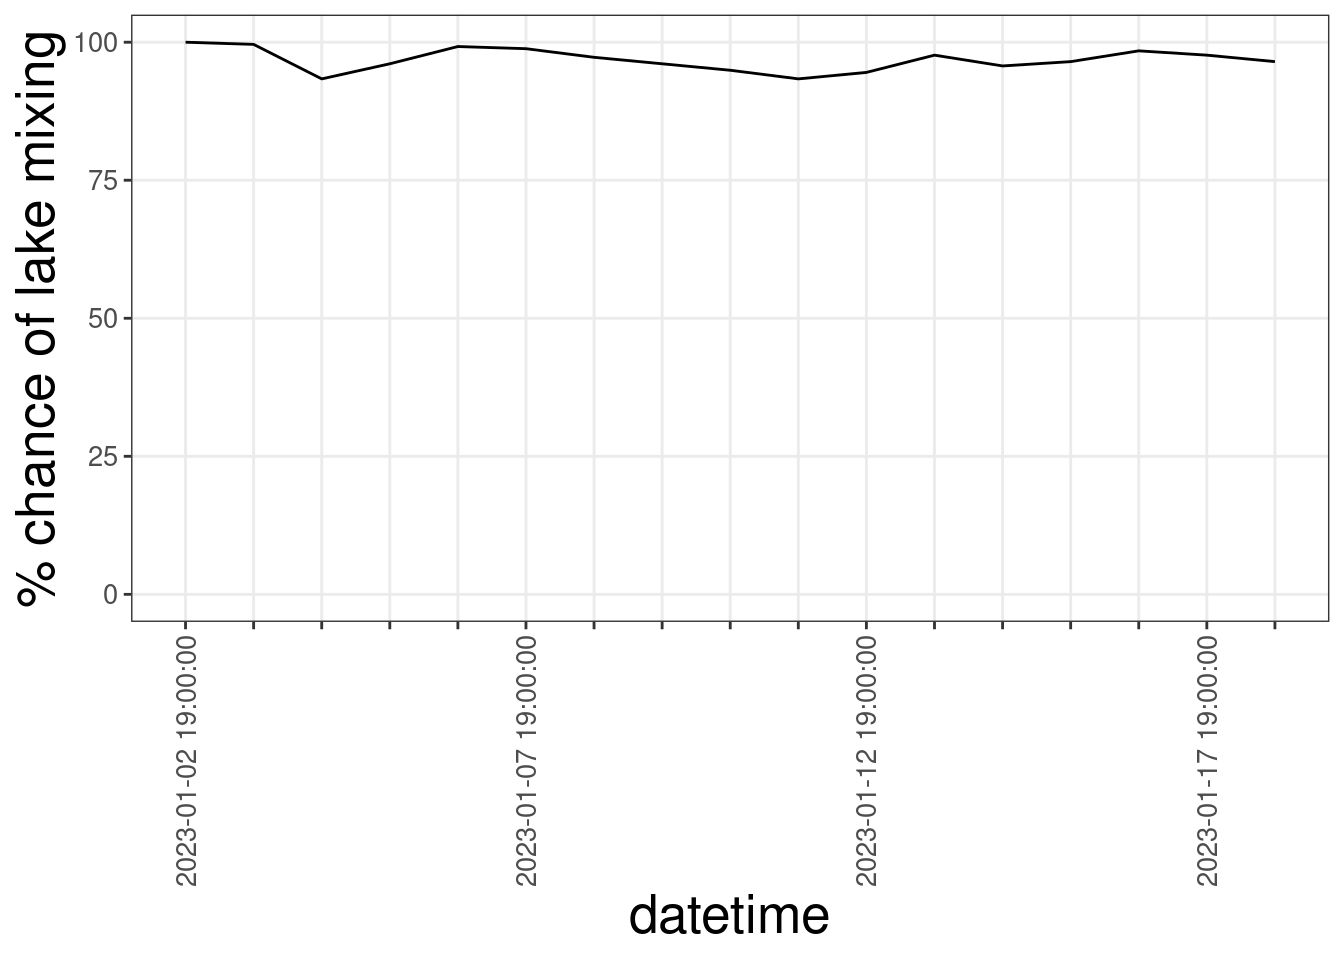
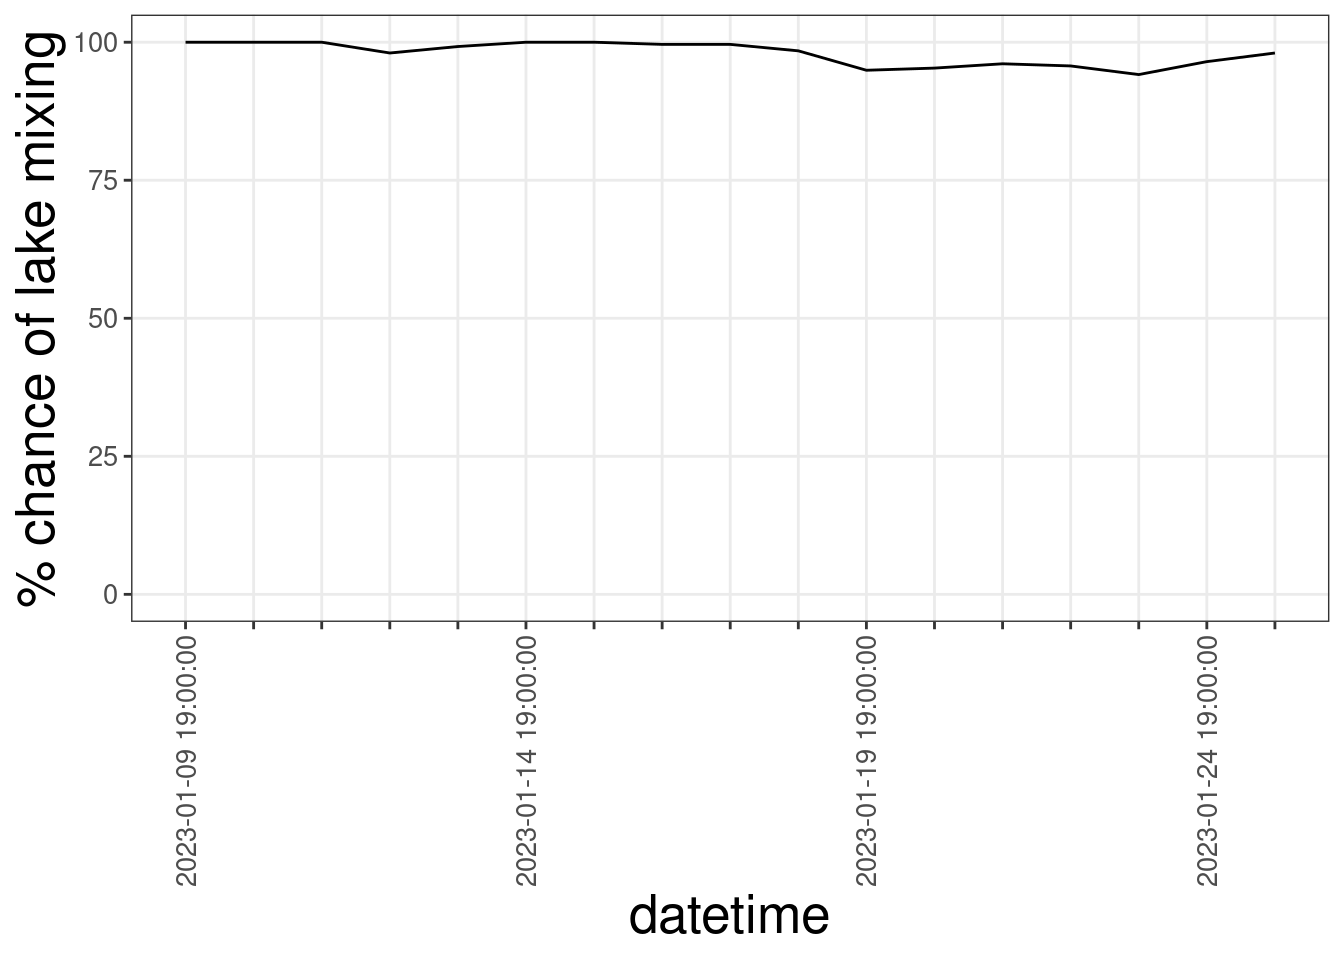
Re-build site

Changed region(s): [[0.1562, 0.0312, 0.9375, 0.0938], [0.875, 0.7812, 0.9062, 0.8125], [0.375, 0.7812, 0.4062, 0.8125]]

diff --git a/docs/index.html b/docs/index.html
@@ -163,15 +163,15 @@ background-size: cover;
 
 
 <p>Welcome to the Forecasting Lake and Reservoir Ecosystems (FLARE) dashboard!</p>
-<p>This page was last updated on 2023-01-10 11:37:10 (Eastern U.S. time).</p>
+<p>This page was last updated on 2023-01-11 07:26:22 (Eastern U.S. time).</p>
 <p>This dashboard provides daily updates to visualize recent water quality forecasts generated across the world using FLARE system. FLARE iterative updates model simulations using real-time data and quantifies uncertainty in forecasts.</p>
 <section id="flare-sites" class="level3">
 <h3 class="anchored" data-anchor-id="flare-sites">FLARE sites</h3>
 <div class="cell" data-fig.showtext="false">
 <div class="cell-output-display">
 
-<div class="leaflet html-widget html-fill-item-overflow-hidden html-fill-item" id="htmlwidget-7d3ec7cb6afabbe7321c" style="width:100%;height:650px;"></div>
-<script type="application/json" data-for="htmlwidget-7d3ec7cb6afabbe7321c">{"x":{"options":{"crs":{"crsClass":"L.CRS.EPSG3857","code":null,"proj4def":null,"projectedBounds":null,"options":{}}},"calls":[{"method":"createMapPane","args":["tmap401",401]},{"method":"addProviderTiles","args":["Esri.WorldGrayCanvas",null,"Esri.WorldGrayCanvas",{"minZoom":0,"maxZoom":18,"tileSize":256,"subdomains":"abc","errorTileUrl":"","tms":false,"noWrap":false,"zoomOffset":0,"zoomReverse":false,"opacity":1,"zIndex":1,"detectRetina":false,"pane":"tilePane"}]},{"method":"addProviderTiles","args":["OpenStreetMap",null,"OpenStreetMap",{"minZoom":0,"maxZoom":18,"tileSize":256,"subdomains":"abc","errorTileUrl":"","tms":false,"noWrap":false,"zoomOffset":0,"zoomReverse":false,"opacity":1,"zIndex":1,"detectRetina":false,"pane":"tilePane"}]},{"method":"addProviderTiles","args":["Esri.WorldTopoMap",null,"Esri.WorldTopoMap",{"minZoom":0,"maxZoom":18,"tileSize":256,"subdomains":"abc","errorTileUrl":"","tms":false,"noWrap":false,"zoomOffset":0,"zoomReverse":false,"opacity":1,"zIndex":1,"detectRetina":false,"pane":"tilePane"}]},{"method":"addCircles","args":[[35.9169609386862,37.0045124199095,42.3782749645038,37.0510440172506,31.6805673555669,45.0981357097079,47.6468234472092,48.4561995265473,49.4164921573669,29.17364173548,-35.0194896005535,68.622506489134],[-83.6099320853759,-79.1979686997499,-72.7011414976695,-79.121246796776,-79.1636512875493,-86.9083374572015,-88.086958187396,-99.6585016596734,-99.9412849233391,-79.5788381134474,-219.885628317715,-149.207467801515],[257151.026484173,257151.026484173,257151.026484173,257151.026484173,257151.026484173,257151.026484173,257151.026484173,257151.026484173,257151.026484173,257151.026484173,257151.026484173,257151.026484173],["Falling.Creek","Beaver.Dam","Lake.Sunapee","Carvins.Cove.Reservoir","Barco.Lake","Crampton.Lake","Little.Rock.Lake","Prairie.Lake","Prairie.Pothole","Suggs.Lake","Lake.Alexandrina","Toolik.Lake"],"neon",{"interactive":true,"className":"","pane":"tmap401","stroke":true,"color":"#666666","weight":1,"opacity":0.5,"fill":true,"fillColor":["#FB8072","#FB8072","#8DD3C7","#FB8072","#FFFFB3","#FFFFB3","#FFFFB3","#FFFFB3","#FFFFB3","#FFFFB3","#BEBADA","#FFFFB3"],"fillOpacity":[1,1,1,1,1,1,1,1,1,1,1,1]},["<style> div.leaflet-popup-content {width:auto !important;overflow-y:auto; overflow-x:hidden;}<\/style><div style=\"max-height:25em;padding-right:0px;\"><table>\n\t\t\t   <thead><tr><th colspan=\"2\"><b>Falling Creek<\/b><\/th><\/thead><\/tr><tr><td style=\"color: #888888;\"><nobr>site_id<\/nobr><\/td><td align=\"right\"><nobr>Falling Creek<\/nobr><\/td><\/tr><\/table><\/div>","<style> div.leaflet-popup-content {width:auto !important;overflow-y:auto; overflow-x:hidden;}<\/style><div style=\"max-height:25em;padding-right:0px;\"><table>\n\t\t\t   <thead><tr><th colspan=\"2\"><b>Beaver Dam<\/b><\/th><\/thead><\/tr><tr><td style=\"color: #888888;\"><nobr>site_id<\/nobr><\/td><td align=\"right\"><nobr>Beaver Dam<\/nobr><\/td><\/tr><\/table><\/div>","<style> div.leaflet-popup-content {width:auto !important;overflow-y:auto; overflow-x:hidden;}<\/style><div style=\"max-height:25em;padding-right:0px;\"><table>\n\t\t\t   <thead><tr><th colspan=\"2\"><b>Lake Sunapee<\/b><\/th><\/thead><\/tr><tr><td style=\"color: #888888;\"><nobr>site_id<\/nobr><\/td><td align=\"right\"><nobr>Lake Sunapee<\/nobr><\/td><\/tr><\/table><\/div>","<style> div.leaflet-popup-content {width:auto !important;overflow-y:auto; overflow-x:hidden;}<\/style><div style=\"max-height:25em;padding-right:0px;\"><table>\n\t\t\t   <thead><tr><th colspan=\"2\"><b>Carvins Cove Reservoir<\/b><\/th><\/thead><\/tr><tr><td style=\"color: #888888;\"><nobr>site_id<\/nobr><\/td><td align=\"right\"><nobr>Carvins Cove Reservoir<\/nobr><\/td><\/tr><\/table><\/div>","<style> div.leaflet-popup-content {width:auto !important;overflow-y:auto; overflow-x:hidden;}<\/style><div style=\"max-height:25em;padding-right:0px;\"><table>\n\t\t\t   <thead><tr><th colspan=\"2\"><b>Barco Lake<\/b><\/th><\/thead><\/tr><tr><td style=\"color: #888888;\"><nobr>site_id<\/nobr><\/td><td align=\"right\"><nobr>Barco Lake<\/nobr><\/td><\/tr><\/table><\/div>","<style> div.leaflet-popup-content {width:auto !important;overflow-y:auto; overflow-x:hidden;}<\/style><div style=\"max-height:25em;padding-right:0px;\"><table>\n\t\t\t   <thead><tr><th colspan=\"2\"><b>Crampton Lake<\/b><\/th><\/thead><\/tr><tr><td style=\"color: #888888;\"><nobr>site_id<\/nobr><\/td><td align=\"right\"><nobr>Crampton Lake<\/nobr><\/td><\/tr><\/table><\/div>","<style> div.leaflet-popup-content {width:auto !important;overflow-y:auto; overflow-x:hidden;}<\/style><div style=\"max-height:25em;padding-right:0px;\"><table>\n\t\t\t   <thead><tr><th colspan=\"2\"><b>Little Rock Lake<\/b><\/th><\/thead><\/tr><tr><td style=\"color: #888888;\"><nobr>site_id<\/nobr><\/td><td align=\"right\"><nobr>Little Rock Lake<\/nobr><\/td><\/tr><\/table><\/div>","<style> div.leaflet-popup-content {width:auto !important;overflow-y:auto; overflow-x:hidden;}<\/style><div style=\"max-height:25em;padding-right:0px;\"><table>\n\t\t\t   <thead><tr><th colspan=\"2\"><b>Prairie Lake<\/b><\/th><\/thead><\/tr><tr><td style=\"color: #888888;\"><nobr>site_id<\/nobr><\/td><td align=\"right\"><nobr>Prairie Lake<\/nobr><\/td><\/tr><\/table><\/div>","<style> div.leaflet-popup-content {width:auto !important;overflow-y:auto; overflow-x:hidden;}<\/style><div style=\"max-height:25em;padding-right:0px;\"><table>\n\t\t\t   <thead><tr><th colspan=\"2\"><b>Prairie Pothole<\/b><\/th><\/thead><\/tr><tr><td style=\"color: #888888;\"><nobr>site_id<\/nobr><\/td><td align=\"right\"><nobr>Prairie Pothole<\/nobr><\/td><\/tr><\/table><\/div>","<style> div.leaflet-popup-content {width:auto !important;overflow-y:auto; overflow-x:hidden;}<\/style><div style=\"max-height:25em;padding-right:0px;\"><table>\n\t\t\t   <thead><tr><th colspan=\"2\"><b>Suggs Lake<\/b><\/th><\/thead><\/tr><tr><td style=\"color: #888888;\"><nobr>site_id<\/nobr><\/td><td align=\"right\"><nobr>Suggs Lake<\/nobr><\/td><\/tr><\/table><\/div>","<style> div.leaflet-popup-content {width:auto !important;overflow-y:auto; overflow-x:hidden;}<\/style><div style=\"max-height:25em;padding-right:0px;\"><table>\n\t\t\t   <thead><tr><th colspan=\"2\"><b>Lake Alexandrina<\/b><\/th><\/thead><\/tr><tr><td style=\"color: #888888;\"><nobr>site_id<\/nobr><\/td><td align=\"right\"><nobr>Lake Alexandrina<\/nobr><\/td><\/tr><\/table><\/div>","<style> div.leaflet-popup-content {width:auto !important;overflow-y:auto; overflow-x:hidden;}<\/style><div style=\"max-height:25em;padding-right:0px;\"><table>\n\t\t\t   <thead><tr><th colspan=\"2\"><b>Toolik Lake<\/b><\/th><\/thead><\/tr><tr><td style=\"color: #888888;\"><nobr>site_id<\/nobr><\/td><td align=\"right\"><nobr>Toolik Lake<\/nobr><\/td><\/tr><\/table><\/div>"],null,["Falling Creek","Beaver Dam","Lake Sunapee","Carvins Cove Reservoir","Barco Lake","Crampton Lake","Little Rock Lake","Prairie Lake","Prairie Pothole","Suggs Lake","Lake Alexandrina","Toolik Lake"],{"interactive":false,"permanent":false,"direction":"auto","opacity":1,"offset":[0,0],"textsize":"10px","textOnly":false,"className":"","sticky":true},null,null]},{"method":"addLegend","args":[{"colors":["#8DD3C7","#FFFFB3","#BEBADA","#FB8072"],"labels":["LSPA","NEON","UWA","WVWA"],"na_color":null,"na_label":"NA","opacity":1,"position":"topright","type":"unknown","title":"Partner","extra":null,"layerId":"legend401","className":"info legend neon","group":"neon"}]},{"method":"addLayersControl","args":[["Esri.WorldGrayCanvas","OpenStreetMap","Esri.WorldTopoMap"],"neon",{"collapsed":true,"autoZIndex":true,"position":"topleft"}]}],"limits":{"lat":[-35.0194896005535,68.622506489134],"lng":[-219.885628317715,-72.7011414976695]},"fitBounds":[-35.436808,-260,68.630692,-74,[]]},"evals":[],"jsHooks":[]}</script>
+<div class="leaflet html-widget html-fill-item-overflow-hidden html-fill-item" id="htmlwidget-cdfa0b3a5320c987174d" style="width:100%;height:650px;"></div>
+<script type="application/json" data-for="htmlwidget-cdfa0b3a5320c987174d">{"x":{"options":{"crs":{"crsClass":"L.CRS.EPSG3857","code":null,"proj4def":null,"projectedBounds":null,"options":{}}},"calls":[{"method":"createMapPane","args":["tmap401",401]},{"method":"addProviderTiles","args":["Esri.WorldGrayCanvas",null,"Esri.WorldGrayCanvas",{"minZoom":0,"maxZoom":18,"tileSize":256,"subdomains":"abc","errorTileUrl":"","tms":false,"noWrap":false,"zoomOffset":0,"zoomReverse":false,"opacity":1,"zIndex":1,"detectRetina":false,"pane":"tilePane"}]},{"method":"addProviderTiles","args":["OpenStreetMap",null,"OpenStreetMap",{"minZoom":0,"maxZoom":18,"tileSize":256,"subdomains":"abc","errorTileUrl":"","tms":false,"noWrap":false,"zoomOffset":0,"zoomReverse":false,"opacity":1,"zIndex":1,"detectRetina":false,"pane":"tilePane"}]},{"method":"addProviderTiles","args":["Esri.WorldTopoMap",null,"Esri.WorldTopoMap",{"minZoom":0,"maxZoom":18,"tileSize":256,"subdomains":"abc","errorTileUrl":"","tms":false,"noWrap":false,"zoomOffset":0,"zoomReverse":false,"opacity":1,"zIndex":1,"detectRetina":false,"pane":"tilePane"}]},{"method":"addCircles","args":[[37.0456261727639,34.6777419652492,43.7509396585871,36.544720701879,30.1361678443795,45.9681483069267,46.2141732833066,51.0524501793294,47.0998230444713,27.4489129372912,-34.7564472874624,68.0401247974577],[-80.3800037559797,-78.2886878114121,-70.2726865408682,-79.7245007873229,-81.5389022813266,-90.8551625832174,-91.2549102359544,-100.98110537185,-99.942572938005,-84.2025674344504,-220.089308556191,-151.911000418239],[257151.026484173,257151.026484173,257151.026484173,257151.026484173,257151.026484173,257151.026484173,257151.026484173,257151.026484173,257151.026484173,257151.026484173,257151.026484173,257151.026484173],["Falling.Creek","Beaver.Dam","Lake.Sunapee","Carvins.Cove.Reservoir","Barco.Lake","Crampton.Lake","Little.Rock.Lake","Prairie.Lake","Prairie.Pothole","Suggs.Lake","Lake.Alexandrina","Toolik.Lake"],"neon",{"interactive":true,"className":"","pane":"tmap401","stroke":true,"color":"#666666","weight":1,"opacity":0.5,"fill":true,"fillColor":["#FB8072","#FB8072","#8DD3C7","#FB8072","#FFFFB3","#FFFFB3","#FFFFB3","#FFFFB3","#FFFFB3","#FFFFB3","#BEBADA","#FFFFB3"],"fillOpacity":[1,1,1,1,1,1,1,1,1,1,1,1]},["<style> div.leaflet-popup-content {width:auto !important;overflow-y:auto; overflow-x:hidden;}<\/style><div style=\"max-height:25em;padding-right:0px;\"><table>\n\t\t\t   <thead><tr><th colspan=\"2\"><b>Falling Creek<\/b><\/th><\/thead><\/tr><tr><td style=\"color: #888888;\"><nobr>site_id<\/nobr><\/td><td align=\"right\"><nobr>Falling Creek<\/nobr><\/td><\/tr><\/table><\/div>","<style> div.leaflet-popup-content {width:auto !important;overflow-y:auto; overflow-x:hidden;}<\/style><div style=\"max-height:25em;padding-right:0px;\"><table>\n\t\t\t   <thead><tr><th colspan=\"2\"><b>Beaver Dam<\/b><\/th><\/thead><\/tr><tr><td style=\"color: #888888;\"><nobr>site_id<\/nobr><\/td><td align=\"right\"><nobr>Beaver Dam<\/nobr><\/td><\/tr><\/table><\/div>","<style> div.leaflet-popup-content {width:auto !important;overflow-y:auto; overflow-x:hidden;}<\/style><div style=\"max-height:25em;padding-right:0px;\"><table>\n\t\t\t   <thead><tr><th colspan=\"2\"><b>Lake Sunapee<\/b><\/th><\/thead><\/tr><tr><td style=\"color: #888888;\"><nobr>site_id<\/nobr><\/td><td align=\"right\"><nobr>Lake Sunapee<\/nobr><\/td><\/tr><\/table><\/div>","<style> div.leaflet-popup-content {width:auto !important;overflow-y:auto; overflow-x:hidden;}<\/style><div style=\"max-height:25em;padding-right:0px;\"><table>\n\t\t\t   <thead><tr><th colspan=\"2\"><b>Carvins Cove Reservoir<\/b><\/th><\/thead><\/tr><tr><td style=\"color: #888888;\"><nobr>site_id<\/nobr><\/td><td align=\"right\"><nobr>Carvins Cove Reservoir<\/nobr><\/td><\/tr><\/table><\/div>","<style> div.leaflet-popup-content {width:auto !important;overflow-y:auto; overflow-x:hidden;}<\/style><div style=\"max-height:25em;padding-right:0px;\"><table>\n\t\t\t   <thead><tr><th colspan=\"2\"><b>Barco Lake<\/b><\/th><\/thead><\/tr><tr><td style=\"color: #888888;\"><nobr>site_id<\/nobr><\/td><td align=\"right\"><nobr>Barco Lake<\/nobr><\/td><\/tr><\/table><\/div>","<style> div.leaflet-popup-content {width:auto !important;overflow-y:auto; overflow-x:hidden;}<\/style><div style=\"max-height:25em;padding-right:0px;\"><table>\n\t\t\t   <thead><tr><th colspan=\"2\"><b>Crampton Lake<\/b><\/th><\/thead><\/tr><tr><td style=\"color: #888888;\"><nobr>site_id<\/nobr><\/td><td align=\"right\"><nobr>Crampton Lake<\/nobr><\/td><\/tr><\/table><\/div>","<style> div.leaflet-popup-content {width:auto !important;overflow-y:auto; overflow-x:hidden;}<\/style><div style=\"max-height:25em;padding-right:0px;\"><table>\n\t\t\t   <thead><tr><th colspan=\"2\"><b>Little Rock Lake<\/b><\/th><\/thead><\/tr><tr><td style=\"color: #888888;\"><nobr>site_id<\/nobr><\/td><td align=\"right\"><nobr>Little Rock Lake<\/nobr><\/td><\/tr><\/table><\/div>","<style> div.leaflet-popup-content {width:auto !important;overflow-y:auto; overflow-x:hidden;}<\/style><div style=\"max-height:25em;padding-right:0px;\"><table>\n\t\t\t   <thead><tr><th colspan=\"2\"><b>Prairie Lake<\/b><\/th><\/thead><\/tr><tr><td style=\"color: #888888;\"><nobr>site_id<\/nobr><\/td><td align=\"right\"><nobr>Prairie Lake<\/nobr><\/td><\/tr><\/table><\/div>","<style> div.leaflet-popup-content {width:auto !important;overflow-y:auto; overflow-x:hidden;}<\/style><div style=\"max-height:25em;padding-right:0px;\"><table>\n\t\t\t   <thead><tr><th colspan=\"2\"><b>Prairie Pothole<\/b><\/th><\/thead><\/tr><tr><td style=\"color: #888888;\"><nobr>site_id<\/nobr><\/td><td align=\"right\"><nobr>Prairie Pothole<\/nobr><\/td><\/tr><\/table><\/div>","<style> div.leaflet-popup-content {width:auto !important;overflow-y:auto; overflow-x:hidden;}<\/style><div style=\"max-height:25em;padding-right:0px;\"><table>\n\t\t\t   <thead><tr><th colspan=\"2\"><b>Suggs Lake<\/b><\/th><\/thead><\/tr><tr><td style=\"color: #888888;\"><nobr>site_id<\/nobr><\/td><td align=\"right\"><nobr>Suggs Lake<\/nobr><\/td><\/tr><\/table><\/div>","<style> div.leaflet-popup-content {width:auto !important;overflow-y:auto; overflow-x:hidden;}<\/style><div style=\"max-height:25em;padding-right:0px;\"><table>\n\t\t\t   <thead><tr><th colspan=\"2\"><b>Lake Alexandrina<\/b><\/th><\/thead><\/tr><tr><td style=\"color: #888888;\"><nobr>site_id<\/nobr><\/td><td align=\"right\"><nobr>Lake Alexandrina<\/nobr><\/td><\/tr><\/table><\/div>","<style> div.leaflet-popup-content {width:auto !important;overflow-y:auto; overflow-x:hidden;}<\/style><div style=\"max-height:25em;padding-right:0px;\"><table>\n\t\t\t   <thead><tr><th colspan=\"2\"><b>Toolik Lake<\/b><\/th><\/thead><\/tr><tr><td style=\"color: #888888;\"><nobr>site_id<\/nobr><\/td><td align=\"right\"><nobr>Toolik Lake<\/nobr><\/td><\/tr><\/table><\/div>"],null,["Falling Creek","Beaver Dam","Lake Sunapee","Carvins Cove Reservoir","Barco Lake","Crampton Lake","Little Rock Lake","Prairie Lake","Prairie Pothole","Suggs Lake","Lake Alexandrina","Toolik Lake"],{"interactive":false,"permanent":false,"direction":"auto","opacity":1,"offset":[0,0],"textsize":"10px","textOnly":false,"className":"","sticky":true},null,null]},{"method":"addLegend","args":[{"colors":["#8DD3C7","#FFFFB3","#BEBADA","#FB8072"],"labels":["LSPA","NEON","UWA","WVWA"],"na_color":null,"na_label":"NA","opacity":1,"position":"topright","type":"unknown","title":"Partner","extra":null,"layerId":"legend401","className":"info legend neon","group":"neon"}]},{"method":"addLayersControl","args":[["Esri.WorldGrayCanvas","OpenStreetMap","Esri.WorldTopoMap"],"neon",{"collapsed":true,"autoZIndex":true,"position":"topleft"}]}],"limits":{"lat":[-34.7564472874624,68.0401247974577],"lng":[-220.089308556191,-70.2726865408682]},"fitBounds":[-35.436808,-260,68.630692,-74,[]]},"evals":[],"jsHooks":[]}</script>
 </div>
 </div>
 <p>This material is based upon work supported by the National Science Foundation as part of awards CNS-1737424, DBI-1933102, and DBI-1933016. Any opinions, findings, and conclusions or recommendations expressed in this material are those of the author(s) and do not necessarily reflect the views of the National Science Foundation.</p>

diff --git a/docs/fcre.html b/docs/fcre.html
@@ -164,7 +164,7 @@ background-size: cover;
 <div class="cell" data-fig.showtext="false">
 
 </div>
-<p>The most recent forecast is from 2023-01-02 19:00:00 (Eastern U.S. time).</p>
+<p>The most recent forecast is from 2023-01-09 19:00:00 (Eastern U.S. time).</p>
 <div class="cell" data-fig.showtext="false">
 <div class="cell-output-display">
 <p><img src="fcre_files/figure-html/fcre-temp-1.png" class="img-fluid" width="672"></p>
